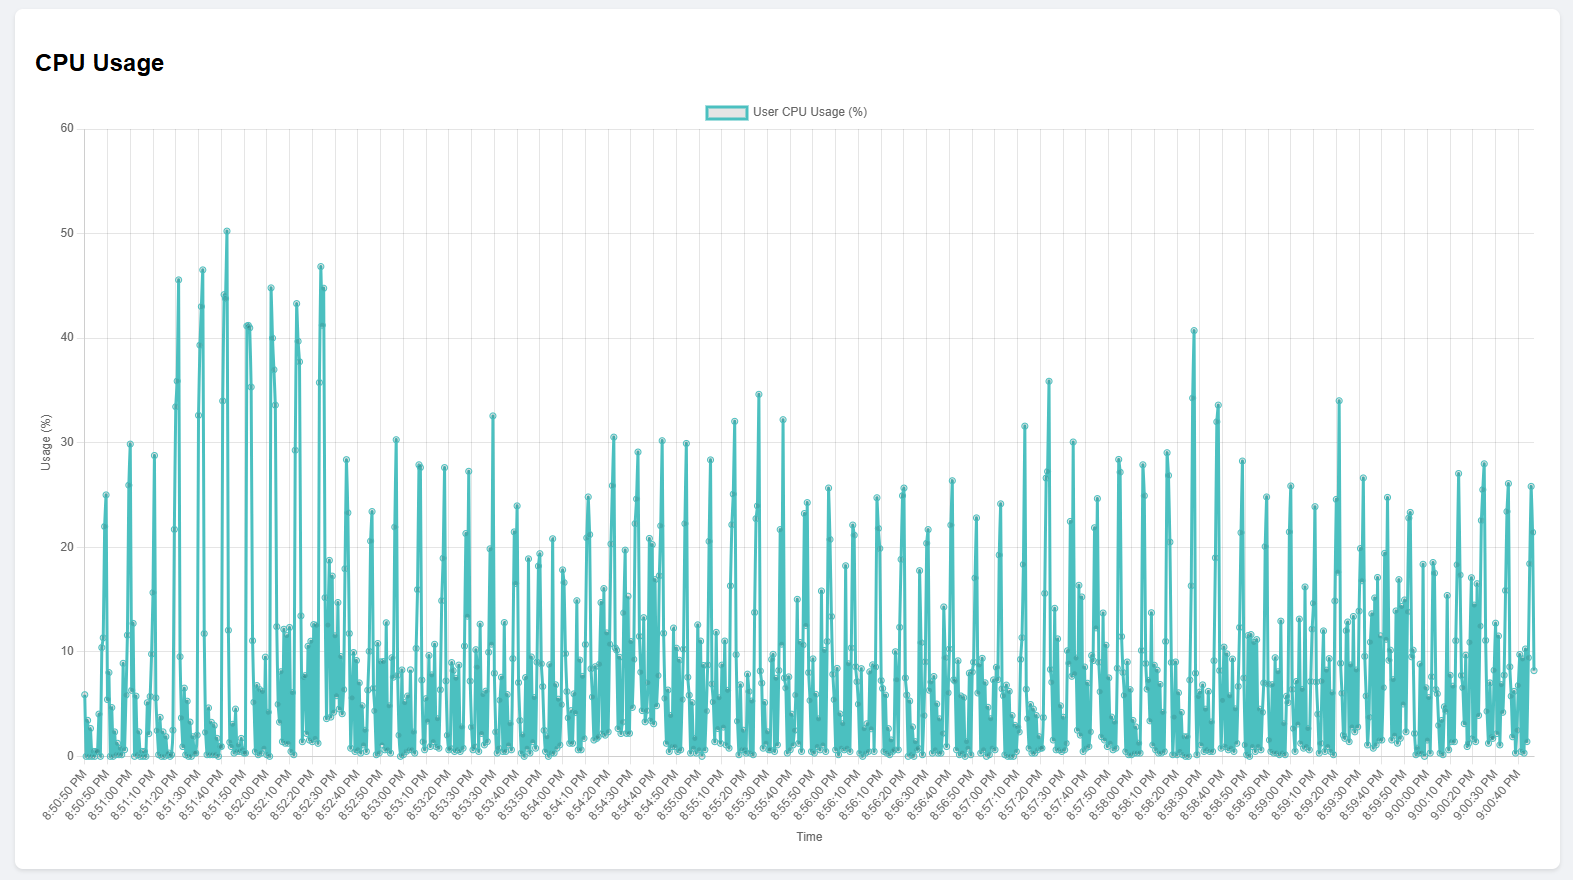
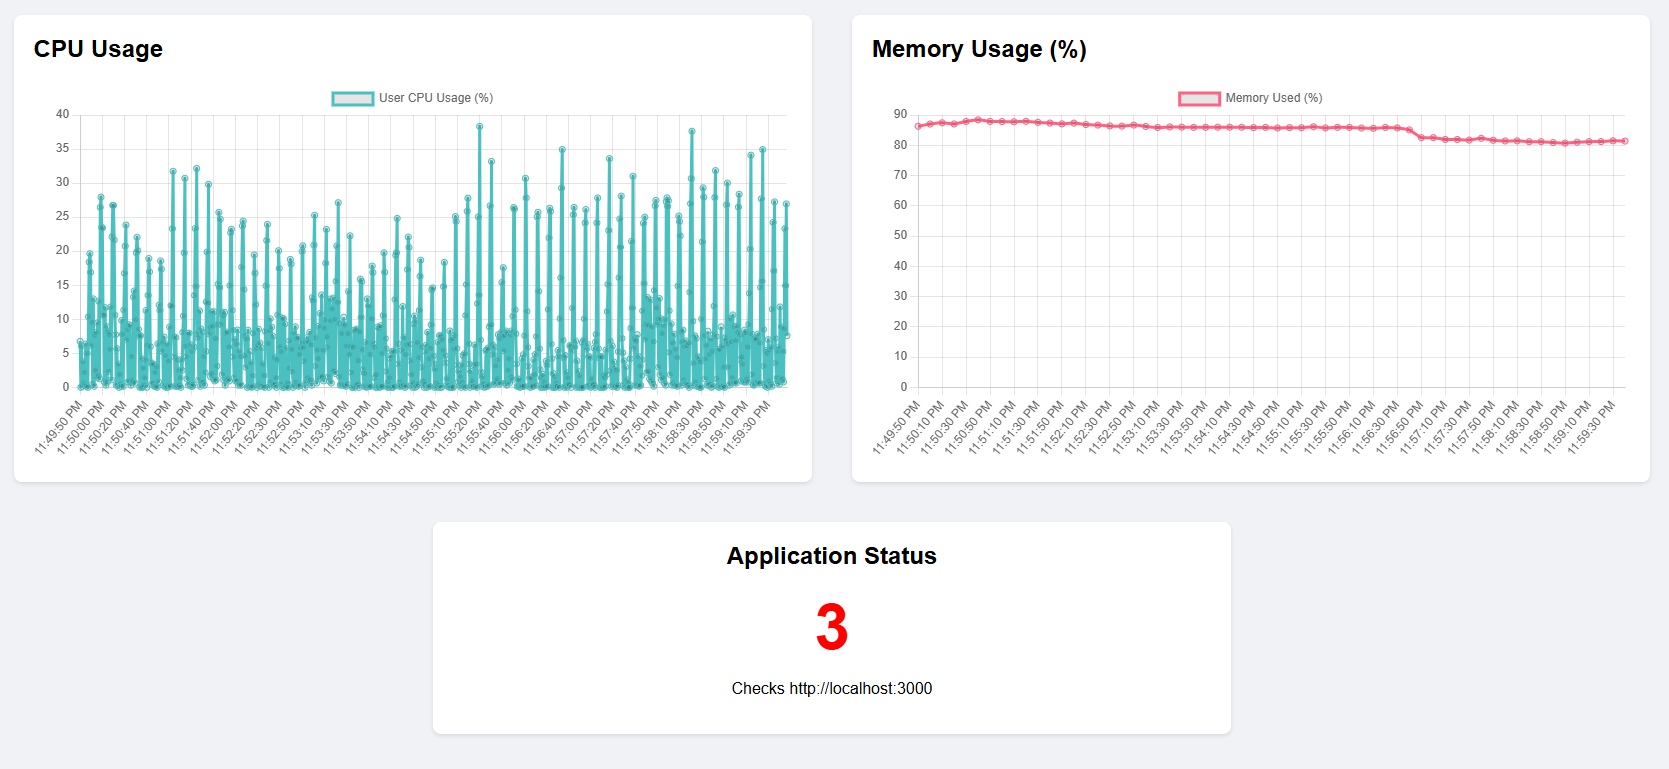
docs(readme): update README file

diff --git a/README.md b/README.md
@@ -6,7 +6,7 @@ A full-stack case study project developed to demonstrate a complete data pipelin
 
 ## 1. Project Overview
 
-This project implements a lightweight Application Performance Monitoring (APM) system from the ground up. The primary goal is to simulate a professional monitoring environment by continuously collecting system metrics (CPU and memory usage), storing this time-series data efficiently, and visualizing it on a custom-built, real-time web dashboard.
+This project implements a lightweight Application Performance Monitoring (APM) system from the ground up. The primary goal is to simulate a professional monitoring environment by continuously collecting system metrics (CPU and memory usage) and application health, storing this time-series data efficiently, and visualizing it on a multi-panel, custom-built, real-time web dashboard.
 
 The architecture was designed to be modular, scalable, and utilize industry-standard open-source tools. It serves as a practical demonstration of handling time-series data, building a backend API, and creating a dynamic frontend visualization.
 
@@ -20,8 +20,8 @@ The data flows through a four-stage pipeline, from collection to visualization. 
 
 1.  **Data Ingestion (Telegraf):** A server agent that collects metrics from the host system at a regular interval.
 2.  **Database (TimescaleDB on Docker):** A PostgreSQL database extended with TimescaleDB for efficient time-series data storage and querying. It runs in a Docker container for portability.
-3.  **Backend API (Python & Flask):** A lightweight web server that exposes a JSON API endpoint. It queries the database for recent data when requested by the frontend.
-4.  **Frontend (HTML, JS, Chart.js):** A static, client-side webpage that periodically fetches data from the backend API and renders it as a live chart.
+3.  **Backend API (Python & Flask):** A lightweight web server that exposes JSON API endpoints. It queries the database for recent data when requested by the frontend.
+4.  **Frontend (HTML, JS, Chart.js):** A static, client-side webpage that periodically fetches data from the backend API and renders it as multiple live charts and status panels.
 
 ---
 
@@ -43,7 +43,7 @@ This project integrates several key technologies from different areas of softwar
 
 ## 4. Final Dashboard
 
-The final output is a clean, simple web dashboard that visualizes the collected CPU data over time.
+The final output is a clean, multi-panel web dashboard that visualizes the collected CPU usage, memory usage, and the live status of a target application.
 
 ![Dashboard Screenshot](dashboard_screenshot.png)
 
@@ -102,27 +102,27 @@ Navigate to the `frontend` directory and open the `index.html` file in your pref
 
 -----
 
-## 6\. API Endpoint
+## 6\. API Endpoints
 
-The backend provides one simple API endpoint.
+The backend provides three simple API endpoints.
 
 ### `GET /api/cpu-data`
 
-  * **Description:** Retrieves the last 10 minutes of `usage_user` CPU data from the database.
+  * **Description:** Retrieves the last 10 minutes of `usage_user` CPU data.
+  * **Response:** A JSON array of objects.
 
-  * **Response:** A JSON array of objects, where each object contains a `time` and `usage_user` key.
+### `GET /api/mem-data`
 
-  * **Sample Response:**
+  * **Description:** Retrieves the last 10 minutes of `used_percent` memory data.
+  * **Response:** A JSON array of objects.
 
+### `GET /api/status-data`
+
+  * **Description:** Retrieves the last known status code from the `http_response` health check.
+  * **Response:** A JSON object with a single status key. A value of `200` would indicate success. Other numbers indicate a failure.
+  * **Sample Response (Failure):**
     ```json
-    [
-        {
-            "time": "2025-10-10T14:30:00.000Z",
-            "usage_user": 5.7
-        },
-        {
-            "time": "2025-10-10T14:30:10.000Z",
-            "usage_user": 6.1
-        }
-    ]
+    {
+        "status": 3
+    }
     ```
